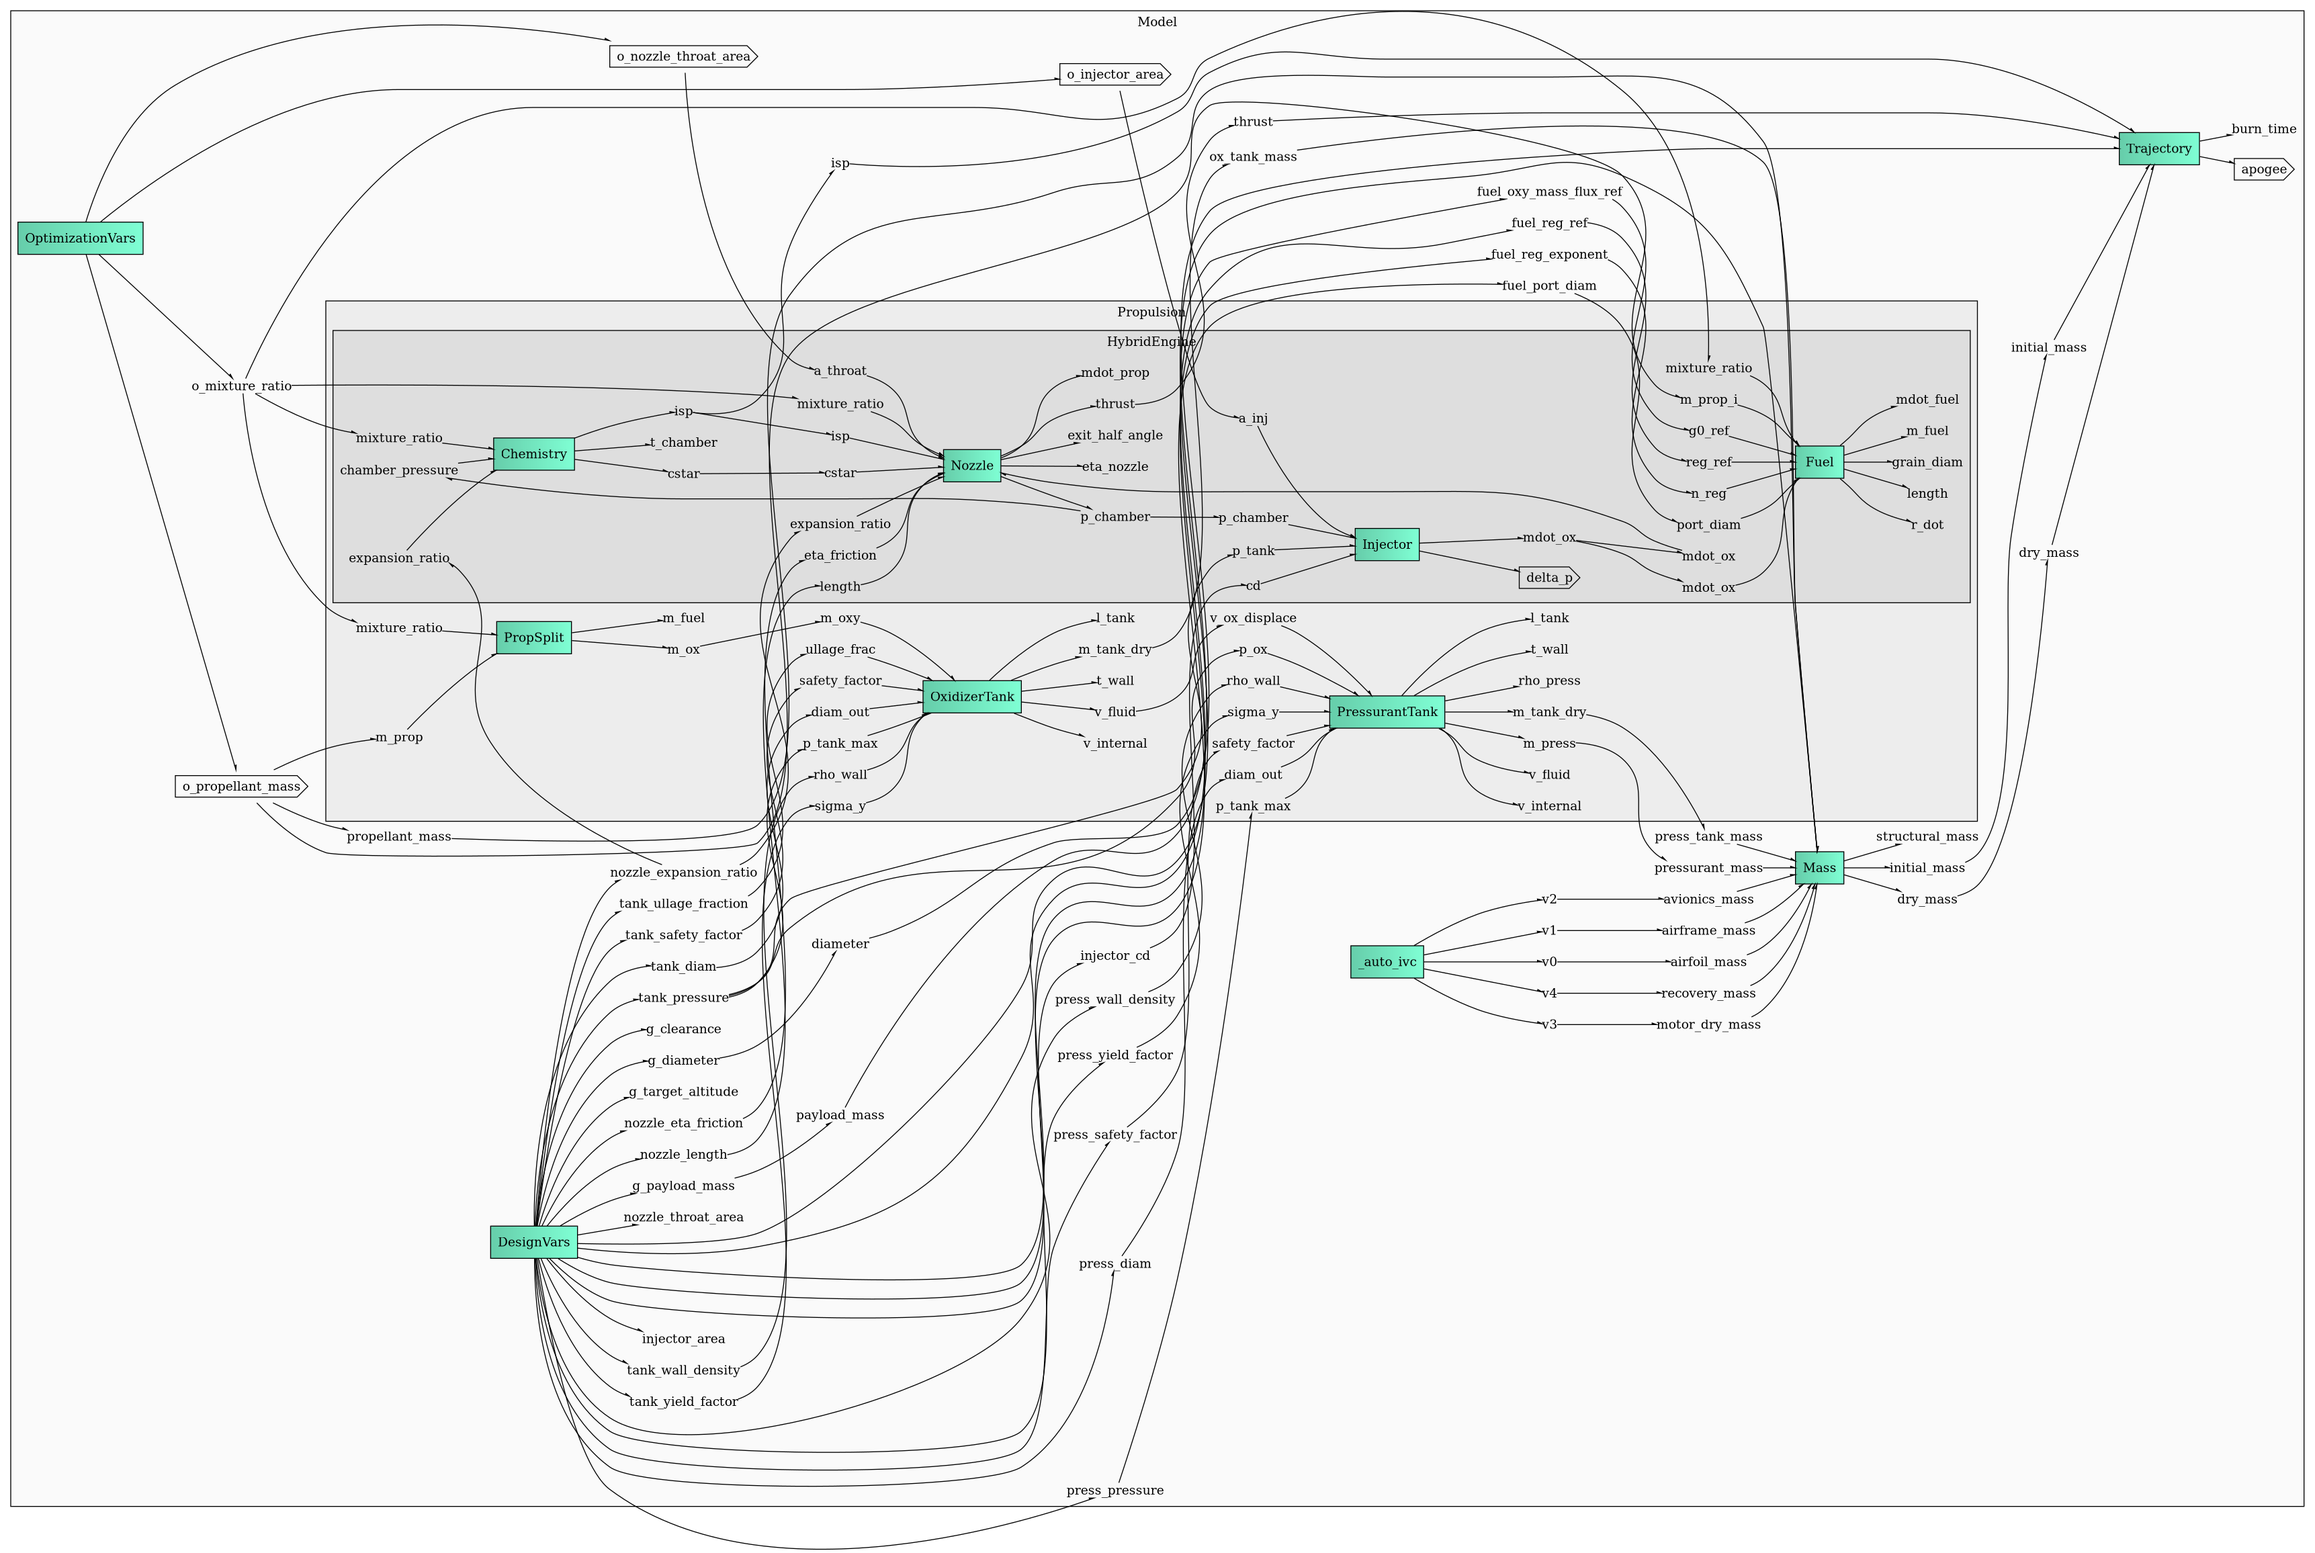
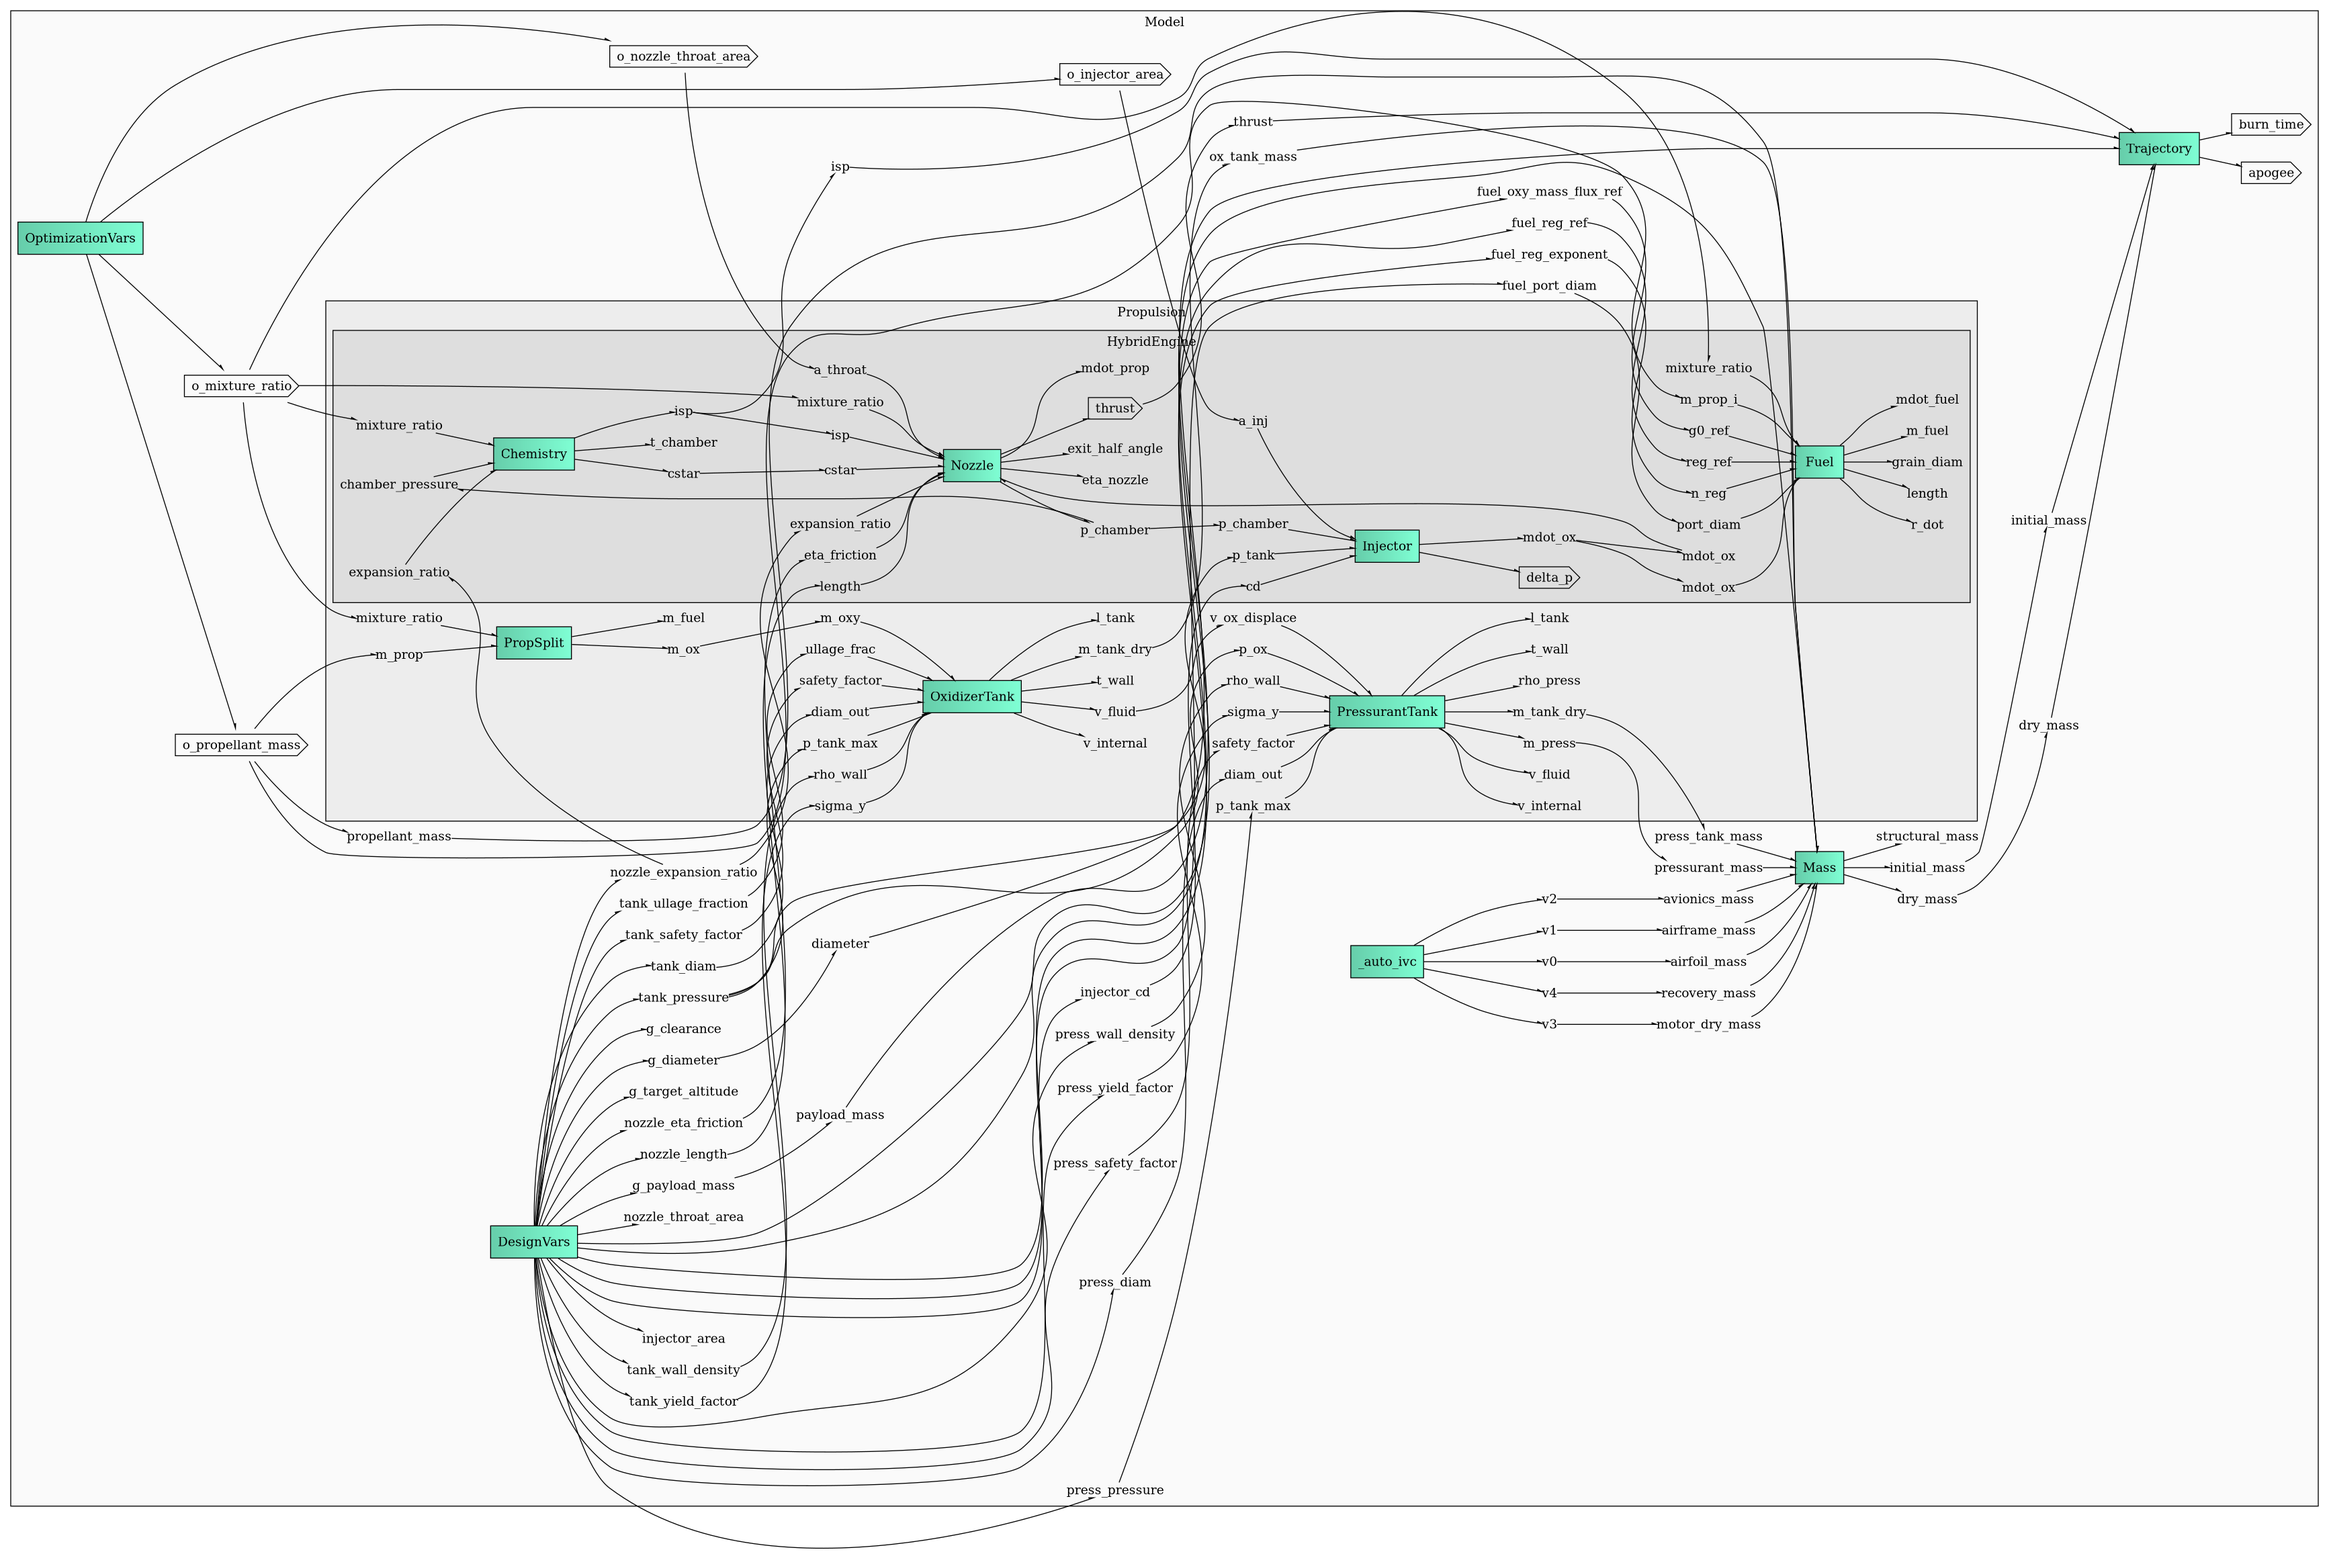
Added constraints on§ burn time and thrust, a method to pass optimized parameters to the test stand class instance, and an argument to set the payload mass at rocket launch problem initialization

diff --git a/rocket-solver/solver.py b/rocket-solver/solver.py
@@ -43,61 +43,13 @@ def main():
 	cea = CEA_Obj(oxName=oname, fuelName=fname)
 	#endregion
 
-	#region Test stand
-	prob_stand = TestStandProblem(
-		cea=cea,
-		rho_ox=rho_ox,
-		rho_fuel=rho_fuel,
-		reports=False,
-	)
-	prob_stand.setup()
-	res = prob_stand.run()
-
-	print("Simulating test stand...")
-	print("")
-	print(f"PT1 (N2O supply pressure):      \t{res['PT1_N2O_supply_bar']:6.2f} bar")
-	print(f"TC1 (N2O supply temperature):   \t{res['TC1_N2O_supply_K']:6.2f} K")
-	print("")
-	print(f"PT2 (run tank feed temperature):\t{res['PT2_run_tank_bar']:6.2f} bar")
-	print(f"TC2 (run tank liquid temp):     \t{res['TC2_run_liquid_K']:6.2f} K")
-	print("")
-	print(f"PT3 (chamber pressure):         \t{res['PT3_chamber_bar']:6.2f} bar")
-	print(f"TC3 (chamber flame temp):       \t{res['TC3_chamber_temp_K']:6.2f} K")
-	print("")
-	print(f"PT4 (N2 supply pressure):       \t{res['PT4_N2_supply_bar']:6.2f} bar")
-	print(f"TC4 (N2 supply pressure):       \t{res['TC4_run_dome_K']:6.2f} K")
-	print("")
-	print(f"ΔP:                             \t{res['delta_p_feed_bar']:6.2f} bar")
-	print(f"Thrust:                         \t{res['thrust_N']:6.2f} N")
-	print(f"Isp:                            \t{res['isp_s']:6.2f} s")
-	print("\n--------")
-
-	# Dump all computed variables to an output file
-	with open("outputs/teststand.txt", mode="wt") as f:
-		prob_stand.model.list_outputs(
-			val=True,
-			units=True,
-			hierarchical=True,
-			out_stream=f,
-		)
-
-	# Draw all the connectivity graphs
-	viewer = GraphViewer(prob_stand.model)
-	for graph_type in ["dataflow", "tree", "cycle"]:
-		viewer.write_graph(
-			gtype=graph_type,
-			display=False,
-			show_vars=True,
-			outfile=f"figures/teststand_{graph_type}.png",
-		)
-	#endregion
-
 	#region Rocket optimization
 	prob_rocket = RocketLaunchProblem(
 		atm=atm,
 		cea=cea,
 		rho_ox=rho_ox,
 		rho_fuel=rho_fuel,
+		payload_mass=10.0,
 		target_apogee=3100.0,
 		reports=True,
 		work_dir=work_dir,
@@ -139,6 +91,70 @@ def main():
 			display=False,
 			show_vars=True,
 			outfile=f"figures/rocket_{graph_type}.png",
+		)
+
+	m_prop_opt   = res['m_prop_kg']
+	mr_opt       = res['mr']
+	a_inj_opt    = res['a_inj_mm2']
+	a_throat_opt = res['a_throat_cm2']
+	#endregion
+
+	print("--------")
+
+	#region Test stand
+	prob_stand = TestStandProblem(
+		cea=cea,
+		rho_ox=rho_ox,
+		rho_fuel=rho_fuel,
+		reports=False,
+	)
+
+	prob_stand.setup()
+
+	prob_stand.set_opt_vars(
+		#m_prop_kg=m_prop_opt,
+		mr=mr_opt,
+		a_inj_mm2=a_inj_opt,
+		a_throat_cm2=a_throat_opt,
+	)
+
+	res = prob_stand.run()
+
+	print("Simulating test stand...")
+	print("")
+	print(f"PT1 (N2O supply pressure):      \t{res['PT1_N2O_supply_bar']:6.2f} bar")
+	print(f"TC1 (N2O supply temperature):   \t{res['TC1_N2O_supply_K']:6.2f} K")
+	print("")
+	print(f"PT2 (run tank feed temperature):\t{res['PT2_run_tank_bar']:6.2f} bar")
+	print(f"TC2 (run tank liquid temp):     \t{res['TC2_run_liquid_K']:6.2f} K")
+	print("")
+	print(f"PT3 (chamber pressure):         \t{res['PT3_chamber_bar']:6.2f} bar")
+	print(f"TC3 (chamber flame temp):       \t{res['TC3_chamber_temp_K']:6.2f} K")
+	print("")
+	print(f"PT4 (N2 supply pressure):       \t{res['PT4_N2_supply_bar']:6.2f} bar")
+	print(f"TC4 (N2 supply pressure):       \t{res['TC4_run_dome_K']:6.2f} K")
+	print("")
+	print(f"ΔP:                             \t{res['delta_p_feed_bar']:6.2f} bar")
+	print(f"Thrust:                         \t{res['thrust_N']:6.2f} N")
+	print(f"Isp:                            \t{res['isp_s']:6.2f} s")
+
+	# Dump all computed variables to an output file
+	with open("outputs/teststand.txt", mode="wt") as f:
+		prob_stand.model.list_outputs(
+			val=True,
+			units=True,
+			hierarchical=True,
+			out_stream=f,
+		)
+
+	# Draw all the connectivity graphs
+	viewer = GraphViewer(prob_stand.model)
+	for graph_type in ["dataflow", "tree", "cycle"]:
+		viewer.write_graph(
+			gtype=graph_type,
+			display=False,
+			show_vars=True,
+			outfile=f"figures/teststand_{graph_type}.png",
 		)
 	#endregion
 #endregion

diff --git a/rocket-solver/modules/BEARS_Rocket/prob_rocket.py b/rocket-solver/modules/BEARS_Rocket/prob_rocket.py
@@ -16,6 +16,7 @@ class RocketLaunchProblem(Problem):
 		cea           : CEA_Obj,
 		rho_ox        : float = 750.0,
 		rho_fuel      : float = 900.0,
+		payload_mass  : float = 1.0,
 		target_apogee : float = 3100.0,
 		**kwargs,
 	):
@@ -32,11 +33,22 @@ class RocketLaunchProblem(Problem):
 		self.driver.options["optimizer"] = "SLSQP"
 
 		# - Design variables
+
+		# Store payload mass as an instance attribute
+		self.payload_mass = payload_mass
+
 		self.model.add_design_var(
 			"OptimizationVars.o_propellant_mass",
 			lower=1.0,
 			upper=10.0,
 			ref=5.0,
+		)
+
+		self.model.add_design_var(
+			"OptimizationVars.o_mixture_ratio",
+			lower=4.0,
+			upper=10.0,
+			ref=6.0,
 		)
 
 		self.model.add_design_var(
@@ -61,6 +73,20 @@ class RocketLaunchProblem(Problem):
 		)
 
 		self.model.add_constraint(
+			"burn_time",
+			lower=2.0,
+			upper=8.0,
+			ref=5.0,
+		)
+
+		self.model.add_constraint(
+			"Propulsion.prop_thrust",
+			upper=1800.0,
+			ref=1500.0,
+		)
+
+		# Injector pressure drop safety margin
+		self.model.add_constraint(
 			"Propulsion.injector_delta_p",
 			lower=20.0,
 			ref=20.0,
@@ -77,8 +103,10 @@ class RocketLaunchProblem(Problem):
 		super().setup(**kwargs)
 
 		# Vehicle parameters
-		self.set_val("DesignVars.g_payload_mass",             1.0)
+		self.set_val("DesignVars.g_payload_mass", self.payload_mass, units="kg")
+
 		self.set_val("DesignVars.g_diameter",                 0.12)
+		self.set_val("DesignVars.press_diam",                 0.12)
 		self.set_val("DesignVars.tank_pressure",              70)
 		self.set_val("DesignVars.tank_diam",                  0.12)
 		self.set_val("DesignVars.injector_cd",                0.7)

diff --git a/rocket-solver/modules/BEARS_Rocket/prob_teststand.py b/rocket-solver/modules/BEARS_Rocket/prob_teststand.py
@@ -50,6 +50,22 @@ class TestStandProblem(Problem):
 
 		return self
 
+	def set_opt_vars(
+		self,
+		m_prop_kg    : float | None = None,
+		mr           : float | None = None,
+		a_inj_mm2    : float | None = None,
+		a_throat_cm2 : float | None = None,
+	):
+		if m_prop_kg is not None:
+			self.set_val("test_prop_mass_init", m_prop_kg,    units="kg")
+		if mr is not None:
+			self.set_val("test_mixture_ratio",  mr)
+		if a_inj_mm2 is not None:
+			self.set_val("injector_area",       a_inj_mm2,    units="mm**2")
+		if a_throat_cm2 is not None:
+			self.set_val("nozzle_throat_area",  a_throat_cm2, units="cm**2")
+
 	def run(self):
 
 		self.run_model()
